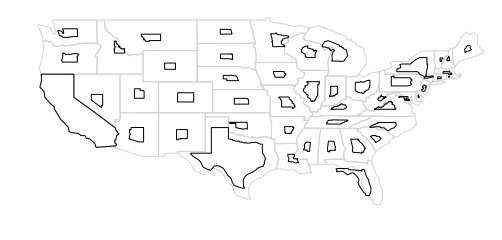
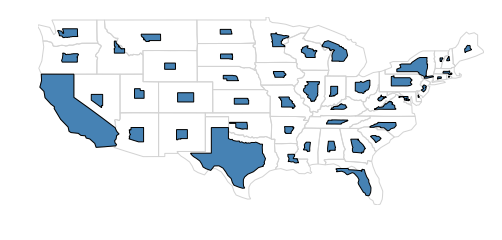
Factor out colormap setting code.

diff --git a/geoplot/geoplot.py b/geoplot/geoplot.py
@@ -106,6 +106,43 @@ class Plot:
         self.ax = ax
         self.projection = projection
 
+    def set_hue_values(
+        self, df, hue=None, scheme=None, k=5, cmap='viridis', color_kwarg='color',
+        default_color='steelblue', kwargs=None
+    ):
+        if kwargs is None:
+            kwargs = dict()
+
+        hue = _to_geoseries(df, hue)
+        if hue is None:
+            if color_kwarg in kwargs:
+                self.colors = [kwargs[color_kwarg]] * len(df)
+            else:
+                self.colors = [default_color] * len(df)
+            self.hue = hue
+            return
+        else:
+            self.colors = None  # not needed
+
+        if k is None:
+            cmap = _continuous_colormap(hue, cmap)
+            self.colors = [cmap.to_rgba(v) for v in hue]
+        else:
+            categorical, scheme = _validate_buckets(df, hue, k, scheme)
+            if hue is not None:
+                cmap, categories, hue_values = _discrete_colorize(
+                    categorical, hue, scheme, k, cmap
+                )
+                self.colors = [cmap.to_rgba(v) for v in hue_values]
+
+        self.hue = hue
+        self.scheme = scheme
+        self.k = k
+        self.cmap = cmap
+        self.categorical = categorical
+        self.categories = categories
+        self.hue_values = hue_values
+
 
 def pointplot(
     df, projection=None,
@@ -258,44 +295,22 @@ def pointplot(
     if len(df.geometry) == 0:
         return ax
 
-    # Parse hue and scale inputs.
-    hue = _to_geoseries(df, hue)
-    scalar_values = _to_geoseries(df, scale)
+    plot.set_hue_values(
+        df, hue=hue, scheme=scheme, k=k, cmap=cmap, color_kwarg='color',
+        default_color='steelblue', kwargs=kwargs
+    )
 
     # Set legend variable.
     legend_var = _set_legend_var(legend_var, hue, scale)
 
-    # Generate the coloring information, if needed. Follows one of two schemes, 
-    # categorical or continuous, based on whether or not ``k`` is specified (``hue`` must be
-    # specified for either to work).
-    if k is not None:
-        # Categorical colormap code path.
-        categorical, scheme = _validate_buckets(df, hue, k, scheme)
+    # Add a legend, if appropriate.
+    if legend and (legend_var != "scale" or scale is None):
+        if hue is not None and k is not None:
+            _paint_hue_legend(ax, plot.categories, plot.cmap, legend_labels, legend_kwargs)
+        elif hue is not None and k is None:
+            _paint_colorbar_legend(ax, hue, cmap, legend_kwargs)
 
-        if hue is not None:
-            cmap, categories, hue_values = _discrete_colorize(
-                categorical, hue, scheme, k, cmap
-            )
-            colors = [cmap.to_rgba(v) for v in hue_values]
-
-            # Add a legend, if appropriate.
-            if legend and (legend_var != "scale" or scale is None):
-                _paint_hue_legend(ax, categories, cmap, legend_labels, legend_kwargs)
-        else:
-            if 'color' not in kwargs.keys():
-                colors = ['steelblue']*len(df)
-            else:
-                colors = [kwargs['color']]*len(df)
-                kwargs.pop('color')
-    elif k is None and hue is not None:
-        # Continuous colormap code path.
-        hue_values = hue
-        cmap = _continuous_colormap(hue_values, cmap)
-        colors = [cmap.to_rgba(v) for v in hue_values]
-
-        # Add a legend, if appropriate.
-        if legend and (legend_var != "scale" or scale is None):
-            _paint_colorbar_legend(ax, hue_values, cmap, legend_kwargs)
+    scalar_values = _to_geoseries(df, scale)
 
     xs = np.array([p.x for p in df.geometry])
     ys = np.array([p.y for p in df.geometry])
@@ -330,7 +345,7 @@ def pointplot(
         xs = np.array(xs)[sorted_indices]
         ys = np.array(ys)[sorted_indices]
         sizes = np.array(sizes)[sorted_indices]
-        colors = np.array(colors)[sorted_indices]
+        plot.colors = np.array(plot.colors)[sorted_indices]
 
         # Draw a legend, if appropriate.
         if legend and (legend_var == "scale" or hue is None):
@@ -342,9 +357,9 @@ def pointplot(
 
     # Draw.
     if projection:
-        ax.scatter(xs, ys, transform=ccrs.PlateCarree(), c=colors, s=sizes, **kwargs)
+        ax.scatter(xs, ys, transform=ccrs.PlateCarree(), c=plot.colors, s=sizes, **kwargs)
     else:
-        ax.scatter(xs, ys, c=colors, s=sizes, **kwargs)
+        ax.scatter(xs, ys, c=plot.colors, s=sizes, **kwargs)
 
     return ax
 
@@ -582,48 +597,26 @@ def choropleth(
     if len(df.geometry) == 0:
         return ax
 
-    # Format the data to be displayed for input.
-    hue = _to_geoseries(df, hue)
     if hue is None:
         raise ValueError("No 'hue' specified.")
+    plot.set_hue_values(
+        df, hue=hue, scheme=scheme, k=k, cmap=cmap, color_kwarg='color', kwargs=kwargs
+    )
 
-    # Generate the coloring information, if needed. Follows one of two schemes, categorical or 
-    # continuous, based on whether or not ``k`` is specified (``hue`` must be specified for either
-    # to work).
-    if k is not None:
-        # Categorical colormap code path.
-
-        # Validate buckets.
-        categorical, scheme = _validate_buckets(df, hue, k, scheme)
-
-        if hue is not None:
-            cmap, categories, hue_values = _discrete_colorize(
-                categorical, hue, scheme, k, cmap
-            )
-            colors = [cmap.to_rgba(v) for v in hue_values]
-
-            # Add a legend, if appropriate.
-            if legend:
-                _paint_hue_legend(ax, categories, cmap, legend_labels, legend_kwargs)
+    # Add a legend, if appropriate.
+    if legend:
+        if k is not None:
+            _paint_hue_legend(ax, plot.categories, plot.cmap, legend_labels, legend_kwargs)
         else:
-            colors = ['steelblue']*len(df)
-    elif k is None and hue is not None:
-        # Continuous colormap code path.
-        hue_values = hue
-        cmap = _continuous_colormap(hue_values, cmap)
-        colors = [cmap.to_rgba(v) for v in hue_values]
-
-        # Add a legend, if appropriate.
-        if legend:
-            _paint_colorbar_legend(ax, hue_values, cmap, legend_kwargs)
+            _paint_colorbar_legend(ax, hue, cmap, legend_kwargs)
 
     # Draw the features.
     if projection:
-        for color, geom in zip(colors, df.geometry):
+        for color, geom in zip(plot.colors, df.geometry):
             features = ShapelyFeature([geom], ccrs.PlateCarree())
             ax.add_feature(features, facecolor=color, **kwargs)
     else:
-        for color, geom in zip(colors, df.geometry):
+        for color, geom in zip(plot.colors, df.geometry):
             try:  # Duck test for MultiPolygon.
                 for subgeom in geom:
                     feature = descartes.PolygonPatch(subgeom, facecolor=color, **kwargs)
@@ -1045,8 +1038,7 @@ def cartogram(
     if len(df.geometry) == 0:
         return ax
 
-    # Standardize hue and scale input.
-    hue = _to_geoseries(df, hue)
+    # Standardize scale input.
     if not scale:
         raise ValueError("No scale parameter provided.")
     values = _to_geoseries(df, scale)
@@ -1059,41 +1051,27 @@ def cartogram(
     else:
         dscale = scale_func(dmin, dmax)
 
+    # Set legend variable.
+    legend_var = _set_legend_var(legend_var, hue, scale)
+
     # Create a legend, if appropriate.
-    if legend:
+    if legend and legend_var == "scale":
         _paint_carto_legend(ax, values, legend_values, legend_labels, dscale, legend_kwargs)
 
-    # Generate the coloring information, if needed. Follows one of two schemes,
-    # categorical or continuous, based on whether or not ``k`` is specified (``hue`` must be
-    # specified for either to work).
-    if k is not None and hue is not None:
-        # Categorical colormap code path.
-        categorical, scheme = _validate_buckets(df, hue, k, scheme)
+    plot.set_hue_values(
+        df, hue=hue, scheme=scheme, k=k, cmap=cmap, color_kwarg='facecolor',
+        default_color='None', kwargs=kwargs
+    )
 
-        if hue is not None:
-            cmap, categories, hue_values = _discrete_colorize(
-                categorical, hue, scheme, k, cmap,
-            )
-            colors = [cmap.to_rgba(v) for v in hue_values]
+    # Add a legend, if appropriate.
+    if legend and legend_var != "scale":
+        if plot.hue is not None and k is not None:
+            _paint_hue_legend(ax, plot.categories, plot.cmap, legend_labels, legend_kwargs)
+        elif plot.hue is not None and k is None:
+            _paint_colorbar_legend(ax, plot.hue, cmap, legend_kwargs)
 
-            # Add a legend, if appropriate.
-            if legend and (legend_var != "scale" or scale is None):
-                _paint_hue_legend(ax, categories, cmap, legend_labels, legend_kwargs)
-        else:
-            colors = ['None']*len(df)
-    elif k is None and hue is not None:
-        # Continuous colormap code path.
-        hue_values = hue
-        cmap = _continuous_colormap(hue_values, cmap,)
-        colors = [cmap.to_rgba(v) for v in hue_values]
-
-        # Add a legend, if appropriate.
-        if legend and (legend_var != "scale" or scale is None):
-            _paint_colorbar_legend(ax, hue_values, cmap, legend_kwargs)
-    elif 'facecolor' in kwargs:
-        colors = [kwargs.pop('facecolor')]*len(df)
-    else:
-        colors = ['None']*len(df)
+    # Set legend variable.
+    legend_var = _set_legend_var(legend_var, hue, scale)
 
     # Manipulate trace_kwargs.
     if trace:
@@ -1121,7 +1099,7 @@ def cartogram(
                     ax.add_patch(feature)
 
     # Finally, draw the scaled geometries.
-    for value, color, polygon in zip(values, colors, df.geometry):
+    for value, color, polygon in zip(values, plot.colors, df.geometry):
         scale_factor = dscale(value)
         scaled_polygon = shapely.affinity.scale(polygon, xfact=scale_factor, yfact=scale_factor)
         if projection:
@@ -1466,38 +1444,17 @@ def sankey(
     path_geoms = df.geometry.map(parse_geom)
     n = len(path_geoms)
 
-    # Generate the coloring information, if needed. Follows one of two schemes,
-    # categorical or continuous, based on whether or not ``k`` is specified (``hue`` must be
-    # specified for either to work).
-    if k is not None:
-        # Categorical colormap code path.
-        categorical, scheme = _validate_buckets(df, hue, k, scheme)
+    plot.set_hue_values(
+        df, hue=hue, scheme=scheme, k=k, cmap=cmap, color_kwarg='color',
+        default_color='steelblue', kwargs=kwargs
+    )
 
-        hue = _to_geoseries(df, hue)
-
-        if hue is not None:
-            cmap, categories, hue_values = _discrete_colorize(
-                categorical, hue, scheme, k, cmap,
-            )
-            colors = [cmap.to_rgba(v) for v in hue_values]
-            # Add a legend, if appropriate.
-            if legend and (legend_var != "scale" or scale is None):
-                _paint_hue_legend(ax, categories, cmap, legend_labels, legend_kwargs)
-        else:
-            if 'color' not in kwargs.keys():
-                colors = ['steelblue'] * n
-            else:
-                colors = [kwargs['color']] * n
-                kwargs.pop('color')
-    elif k is None and hue is not None:
-        # Continuous colormap code path.
-        hue_values = hue
-        cmap = _continuous_colormap(hue_values, cmap)
-        colors = [cmap.to_rgba(v) for v in hue_values]
-
-        # Add a legend, if appropriate.
-        if legend and (legend_var != "scale" or scale is None):
-            _paint_colorbar_legend(ax, hue_values, cmap, legend_kwargs)
+    # Add a legend, if appropriate.
+    if legend and legend_var != "scale":
+        if plot.hue is not None and k is not None:
+            _paint_hue_legend(ax, plot.categories, plot.cmap, legend_labels, legend_kwargs)
+        elif plot.hue is not None and k is None:
+            _paint_colorbar_legend(ax, plot.hue, cmap, legend_kwargs)
 
     # Check if the ``scale`` parameter is filled, and use it to fill a ``values`` name.
     if scale is not None:
@@ -1528,23 +1485,19 @@ def sankey(
         linestyle = kwargs['linestyle']; kwargs.pop('linestyle')
     else:
         linestyle = '-'
-    if 'color' in kwargs.keys():
-        colors = [kwargs['color']]*n; kwargs.pop('color')
-    # plt.plot uses 'color', mpl.ax.add_feature uses 'edgecolor'. Support both.
-    elif 'edgecolor' in kwargs.keys():
-        colors = [kwargs['edgecolor']]*n; kwargs.pop('edgecolor')
+
     if 'linewidth' in kwargs.keys():
-        widths = [kwargs['linewidth']]*n; kwargs.pop('linewidth')
+        widths = [kwargs['linewidth']] * n; kwargs.pop('linewidth')
 
     if projection:
-        for line, color, width in zip(path_geoms, colors, widths):
+        for line, color, width in zip(path_geoms, plot.colors, widths):
             feature = ShapelyFeature([line], ccrs.PlateCarree())
             ax.add_feature(
                 feature, linestyle=linestyle, linewidth=width, edgecolor=color,
                 facecolor='None', **kwargs
             )
     else:
-        for path, color, width in zip(path_geoms, colors, widths):
+        for path, color, width in zip(path_geoms, plot.colors, widths):
             # We have to implement different methods for dealing with LineString and
             # MultiLineString objects.
             try:  # LineString
@@ -1741,37 +1694,15 @@ def voronoi(
     hue = _to_geoseries(df, hue)
     clip = _to_geoseries(df, clip)
 
-    # Generate the coloring information, if needed. Follows one of two schemes,
-    # categorical or continuous, based on whether or not ``k`` is specified (``hue`` must be
-    # specified for either to work).
-    if k is not None:
-        # Categorical colormap code path.
-        categorical, scheme = _validate_buckets(df, hue, k, scheme)
-
-        if hue is not None:
-            cmap, categories, hue_values = _discrete_colorize(
-                categorical, hue, scheme, k, cmap
-            )
-            colors = [cmap.to_rgba(v) for v in hue_values]
-
-        else:
-            colors = ['None']*len(df)
-
-    elif k is None and hue is not None:
-        # Continuous colormap code path.
-        hue_values = hue
-        cmap = _continuous_colormap(hue_values, cmap)
-        colors = [cmap.to_rgba(v) for v in hue_values]
-
-    elif 'facecolor' in kwargs:
-        colors = [kwargs.pop('facecolor')]*len(df)
-    else:
-        colors = ['None']*len(df)
+    plot.set_hue_values(
+        df, hue=hue, scheme=scheme, k=k, cmap=cmap, color_kwarg='facecolor',
+        default_color='None', kwargs=kwargs        
+    )
 
     # Finally we draw the features.
     geoms = _build_voronoi_polygons(df)
     if projection:
-        for color, geom in zip(colors, geoms):
+        for color, geom in zip(plot.colors, geoms):
             features = ShapelyFeature([geom], ccrs.PlateCarree())
             ax.add_feature(features, facecolor=color, edgecolor=edgecolor, **kwargs)
 
@@ -1781,7 +1712,7 @@ def voronoi(
             ax.add_feature(feature, facecolor=(1,1,1), linewidth=0, zorder=100)
 
     else:
-        for color, geom in zip(colors, geoms):
+        for color, geom in zip(plot.colors, geoms):
             feature = descartes.PolygonPatch(geom, facecolor=color, edgecolor=edgecolor, **kwargs)
             ax.add_patch(feature)
 
@@ -1794,9 +1725,11 @@ def voronoi(
 
     # Add a legend, if appropriate.
     if legend and k is not None:
-        _paint_hue_legend(ax, categories, cmap, legend_labels, legend_kwargs, figure=True)
+        _paint_hue_legend(
+            ax, plot.categories, plot.cmap, legend_labels, legend_kwargs, figure=True
+        )
     elif legend and k is None and hue is not None:
-        _paint_colorbar_legend(ax, hue_values, cmap, legend_kwargs)
+        _paint_colorbar_legend(ax, plot.hue, plot.cmap, legend_kwargs)
 
     return ax
 
